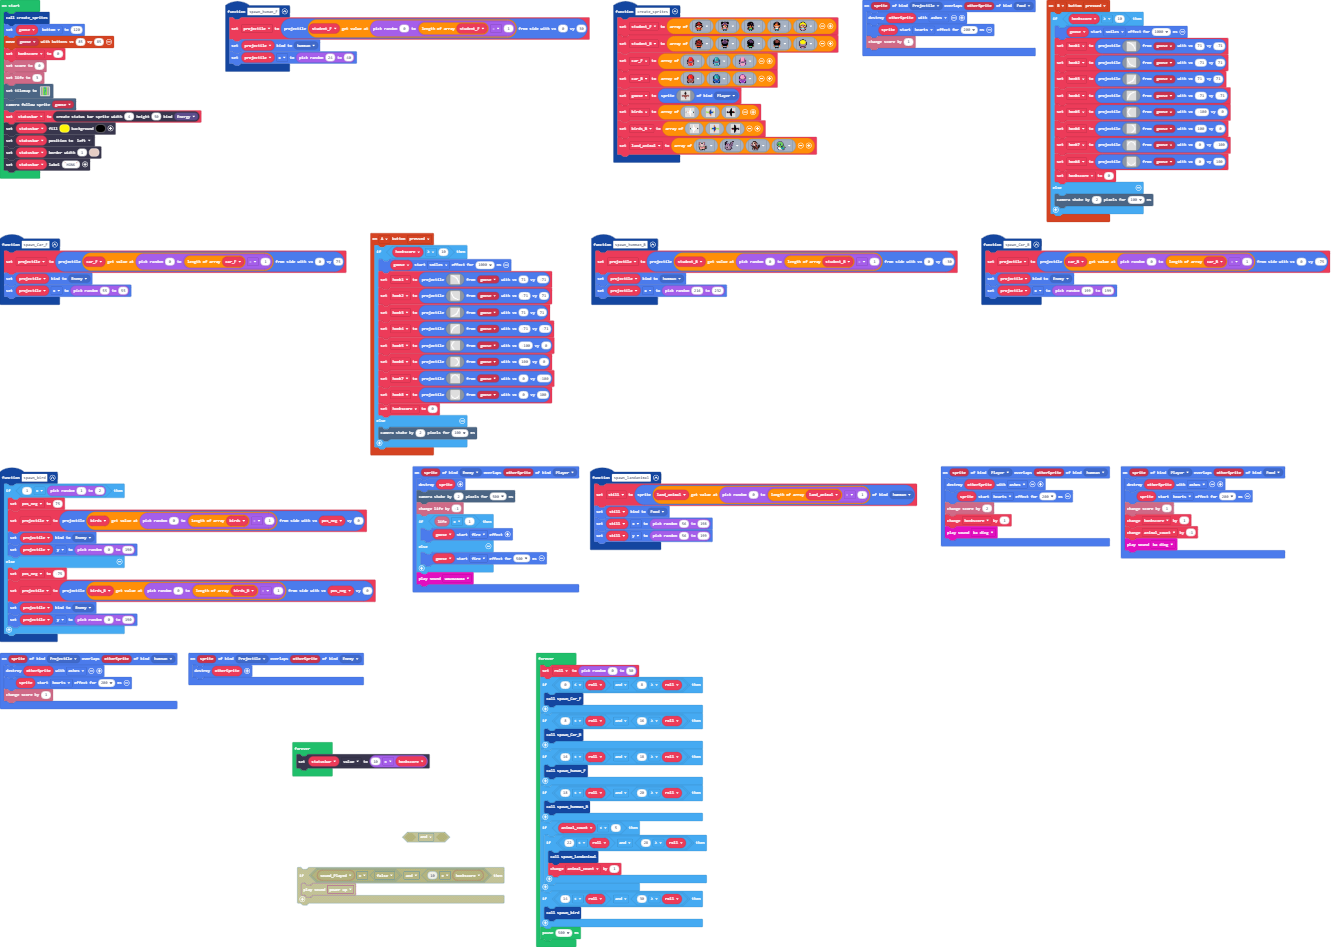
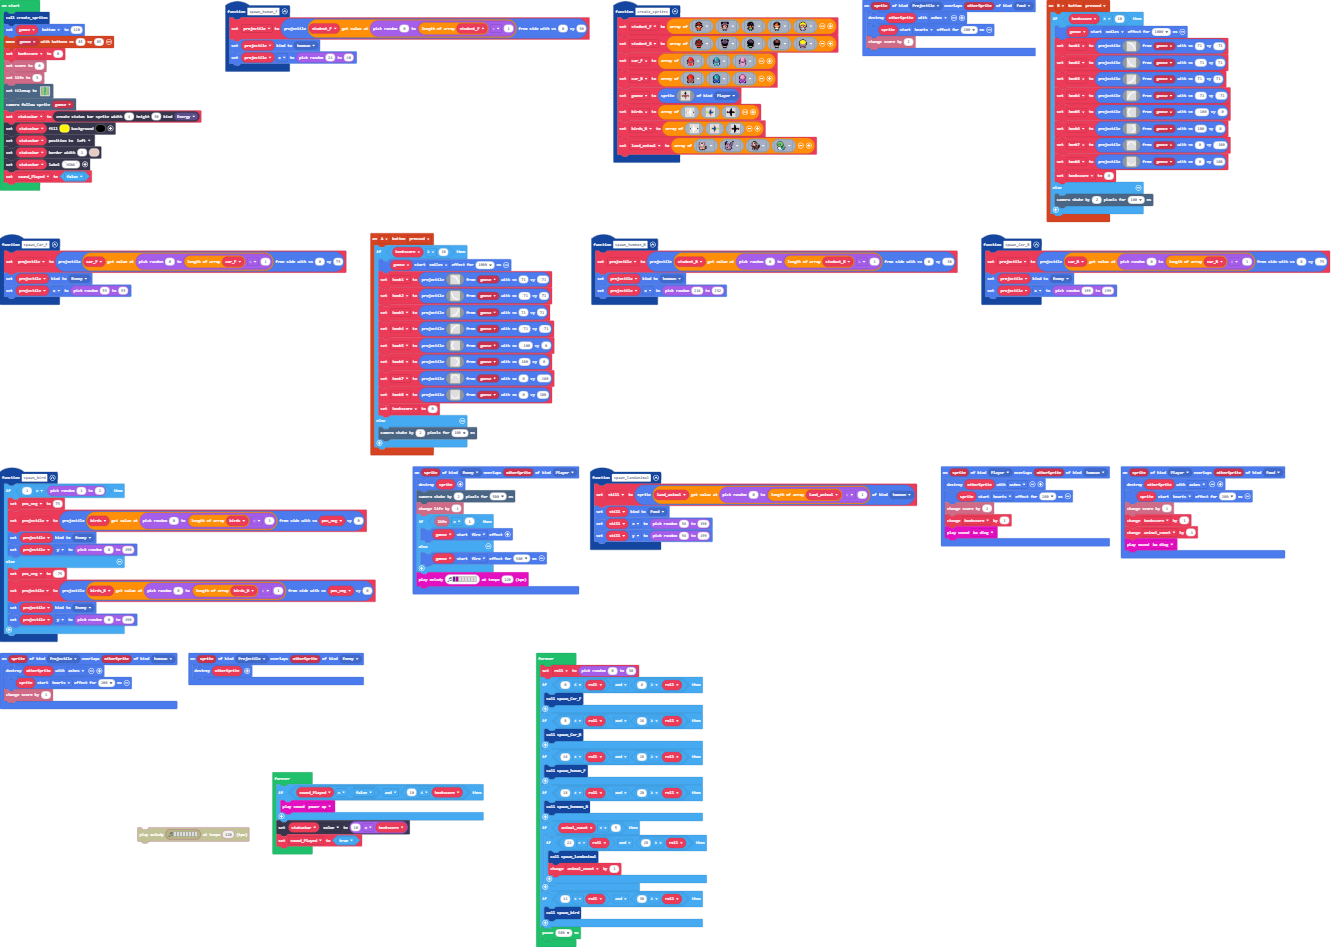
Update main.blocks, main.ts

Changed region(s): [[0.0916, 0.7656, 0.3969, 0.9799], [0.3053, 0.5818, 0.4274, 0.6431], [0.0, 0.1531, 0.0611, 0.2144]]

diff --git a/main.ts b/main.ts
@@ -481,7 +481,7 @@ sprites.onOverlap(SpriteKind.Enemy, SpriteKind.Player, function (sprite, otherSp
     } else {
         goose.startEffect(effects.fire, 500)
     }
-    music.wawawawaa.play()
+    music.playMelody("D C - - - - - - ", 120)
 })
 function spawn_landanimal () {
     still = sprites.create(land_animal[randint(0, land_animal.length - 1)], SpriteKind.humman)
@@ -547,6 +547,7 @@ statusbar.setColor(5, 15)
 statusbar.positionDirection(CollisionDirection.Left)
 statusbar.setBarBorder(1, 13)
 statusbar.setLabel("HONK")
+let sound_Played = false
 forever(function () {
     roll = randint(0, 30)
     if (0 <= roll && 8 >= roll) {
@@ -573,5 +574,9 @@ forever(function () {
     pause(500)
 })
 forever(function () {
+    if (sound_Played == false && 10 <= honkscore) {
+        music.powerUp.play()
+    }
     statusbar.value = 10 * honkscore
+    sound_Played = true
 })
